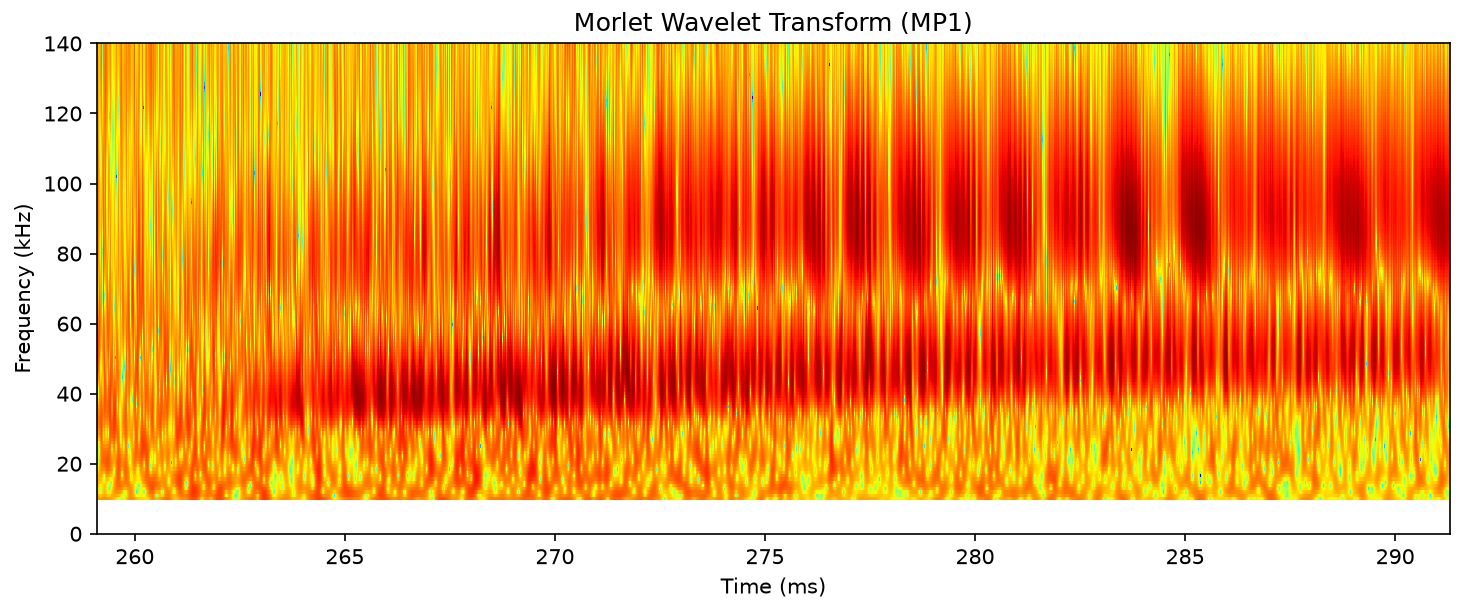
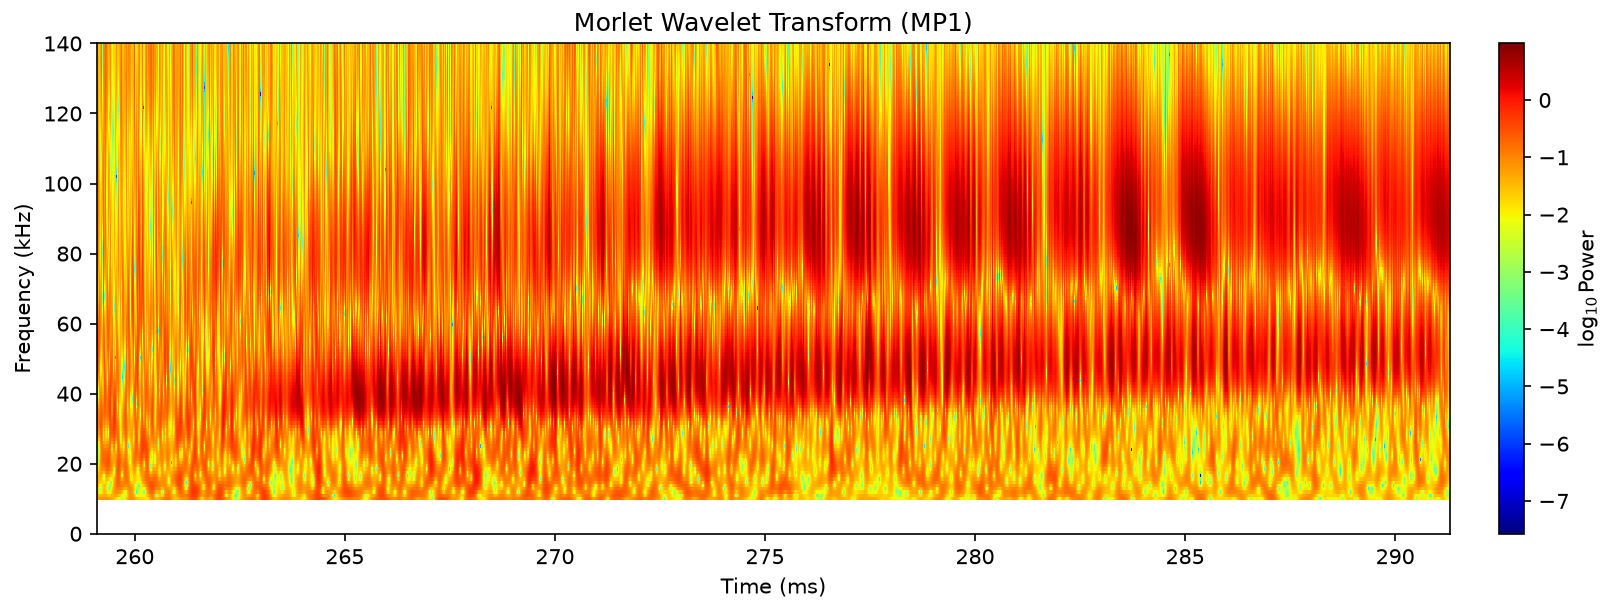
obj1: tracked ridge mode markers; re-extract heatmap panels with colorbars

diff --git a/analysis/obj1_mode_identification/mhd_analysis_obj1.py b/analysis/obj1_mode_identification/mhd_analysis_obj1.py
@@ -7,7 +7,8 @@ from pathlib import Path
 import numpy as np
 import matplotlib.pyplot as plt
 import scipy.signal as dsp
-from scipy.ndimage import uniform_filter1d
+from scipy.ndimage import uniform_filter1d, median_filter
+import matplotlib.patheffects as pe
 
 SHOTS_DEFAULT = [88653]
 
@@ -31,6 +32,7 @@ import turnelib as TE
 import libana_signal as LAS
 from mhd_common import morlet_cwt
 from comparison_common import (
+    DEFAULT_SHOT,
     T_NOISE_START, T_NOISE_END,
     T_W1_START, T_W1_END,
     T_W2_START, T_W2_END,
@@ -44,6 +46,12 @@ def setup_logging(verbose=False, log_file=None):
     log.setLevel(logging.DEBUG)
     log.handlers.clear()
     
+    if hasattr(sys.stdout, "reconfigure"):
+        try:
+            sys.stdout.reconfigure(encoding="utf-8", errors="replace")
+        except Exception:
+            pass
+
     console = logging.StreamHandler(sys.stdout)
     console.setLevel(logging.DEBUG if verbose else logging.INFO)
     console.setFormatter(logging.Formatter("%(message)s"))
@@ -377,7 +385,7 @@ def process_shot(shot, args):
 
         c0 = axs[0].pcolormesh(tt[mask_fplot, :], ff[mask_fplot, :], np.log10(Pyy1[mask_fplot, :] + 1e-30),
                                 cmap='jet', shading='auto')
-        fig.colorbar(c0, ax=axs[0], label="log10 PSD (V^2/Hz)", pad=0.03)
+        cb0 = fig.colorbar(c0, ax=axs[0], label="log10 PSD (V^2/Hz)", pad=0.03)
 
         dmap_plot = dominance_map[mask_fplot, :].astype(float)
         axs[0].contourf(tt[mask_fplot, :], ff[mask_fplot, :], dmap_plot,
@@ -388,64 +396,163 @@ def process_shot(shot, args):
         # Time window matching heating_vs_mirnov.py
         axs[0].set_xlim(150.0, 350.0)
 
-        # Primary and secondary mode segmented markers
-        phase_tracking = compute_phase_mode_frequencies(signals["MP1"], fs, time_sec)
-        w1_data = phase_tracking["ECH + NBI Phase"]
-        w2_data = phase_tracking["NBI-only Phase"]
+        # Mode markers for DEFAULT_SHOT only
+        if shot == DEFAULT_SHOT:
+            # Dynamic tracked ridge lines for Primary and Secondary modes
+            nperseg_tr = 1024
+            noverlap_tr = 960  # hop = 64 us
+            f_stft_tr, t_s_tr, Zxx_tr = dsp.stft(signals["MP1"], fs=fs, nperseg=nperseg_tr, noverlap=noverlap_tr, window='hann')
+            t_stft_ms_tr = float(time_sec[0]) * 1000.0 + t_s_tr * 1000.0
+            psd_tr = np.abs(Zxx_tr) ** 2
+            f_khz_tr = f_stft_tr / 1000.0
 
-        f_pri_w1, f_sec_w1 = w1_data["f_pri_mean"], w1_data["f_sec_mean"]
-        f_pri_w2, f_sec_w2 = w2_data["f_pri_mean"], w2_data["f_sec_mean"]
+            m_pri_band = (f_khz_tr >= 70.0) & (f_khz_tr <= 110.0)
+            m_sec_band = (f_khz_tr >= 30.0) & (f_khz_tr <= 65.0)
 
-        log_print(f"Segmented mode ridge tracking for Shot {shot}:")
-        log_print(f"  Primary Mode Segment 1 (ECH+NBI):  [{w1_data['tw_start']:.1f}, {w1_data['tw_end']:.1f}] ms -> {f_pri_w1:.2f} kHz")
-        log_print(f"  Primary Mode Segment 2 (NBI-only): [{w2_data['tw_start']:.1f}, {w2_data['tw_end']:.1f}] ms -> {f_pri_w2:.2f} kHz")
-        log_print(f"  Secondary Mode Segment 1 (ECH+NBI):  [{w1_data['tw_start']:.1f}, {w1_data['tw_end']:.1f}] ms -> {f_sec_w1:.2f} kHz")
-        log_print(f"  Secondary Mode Segment 2 (NBI-only): [{w2_data['tw_start']:.1f}, {w2_data['tw_end']:.1f}] ms -> {f_sec_w2:.2f} kHz")
+            # Dominance map lookup setup
+            t_dmap_ms = tave * 1000.0
+            f_dmap_khz = f / 1000.0
 
-        # Sanity check against reference values
-        ref_pri_w1, ref_sec_w1 = 87.60, 45.47
-        ref_pri_w2, ref_sec_w2 = 86.69, 40.26
-        if abs(f_pri_w1 - ref_pri_w1) > 4.0 or abs(f_sec_w1 - ref_sec_w1) > 4.0 or \
-           abs(f_pri_w2 - ref_pri_w2) > 4.0 or abs(f_sec_w2 - ref_sec_w2) > 4.0:
-            raise ValueError("Computed ridge tracking values disagree with reference values by more than 4 kHz! Aborting.")
+            # Process per phase: Phase 1 (259.1-291.3 ms) and Phase 2 (291.3-300.0 ms)
+            phase_defs = [
+                ("Phase 1 (ECH+NBI)", (t_stft_ms_tr >= 259.1) & (t_stft_ms_tr <= 291.3)),
+                ("Phase 2 (NBI-only)", (t_stft_ms_tr > 291.3) & (t_stft_ms_tr <= 300.0)),
+            ]
 
-        # Primary mode segments (white dashed)
-        axs[0].plot([w1_data["tw_start"], w1_data["tw_end"]], [f_pri_w1, f_pri_w1],
-                    color='white', linestyle='--', linewidth=2.4, zorder=5)
-        axs[0].plot([w2_data["tw_start"], w2_data["tw_end"]], [f_pri_w2, f_pri_w2],
-                    color='white', linestyle='--', linewidth=2.4, zorder=5)
+            mode_results = {}
+            log_print(f"\nTracked ridge mode statistics for Shot {shot} (median filter: 17 slices = 1.088 ms):")
 
-        # Secondary mode segments (yellow dashed)
-        axs[0].plot([w1_data["tw_start"], w1_data["tw_end"]], [f_sec_w1, f_sec_w1],
-                    color='yellow', linestyle='--', linewidth=2.4, zorder=5)
-        axs[0].plot([w2_data["tw_start"], w2_data["tw_end"]], [f_sec_w2, f_sec_w2],
-                    color='yellow', linestyle='--', linewidth=2.4, zorder=5)
+            def filter_short_runs(mask, min_len=9):
+                cleaned = mask.copy()
+                in_run = False
+                run_start = 0
+                runs = []
+                for i, val in enumerate(mask):
+                    if val and not in_run:
+                        in_run = True
+                        run_start = i
+                    elif not val and in_run:
+                        in_run = False
+                        runs.append((run_start, i))
+                if in_run:
+                    runs.append((run_start, len(mask)))
+                n_dropped = 0
+                for start, end in runs:
+                    rlen = end - start
+                    if rlen < min_len:
+                        cleaned[start:end] = False
+                        n_dropped += rlen
+                return cleaned, n_dropped
 
-        # Small frequency badges
-        bbox_f_pri = dict(boxstyle='round,pad=0.2', facecolor='black', alpha=0.75, edgecolor='white', lw=0.8)
-        bbox_f_sec = dict(boxstyle='round,pad=0.2', facecolor='black', alpha=0.75, edgecolor='yellow', lw=0.8)
+            for pname, mask_ph in phase_defs:
+                t_ph = t_stft_ms_tr[mask_ph]
+                n_sl = len(t_ph)
+                psd_ph = psd_tr[:, mask_ph]
 
-        axs[0].text((w1_data["tw_start"] + w1_data["tw_end"]) / 2.0, f_pri_w1 + 3.0, f"{f_pri_w1:.1f} kHz",
-                    color='white', fontsize=8.0, fontweight='bold', ha='center', va='bottom', bbox=bbox_f_pri)
-        axs[0].text((w2_data["tw_start"] + w2_data["tw_end"]) / 2.0, f_pri_w2 + 3.0, f"{f_pri_w2:.1f} kHz",
-                    color='white', fontsize=8.0, fontweight='bold', ha='center', va='bottom', bbox=bbox_f_pri)
+                raw_p = f_khz_tr[m_pri_band][np.argmax(psd_ph[m_pri_band, :], axis=0)]
+                raw_s = f_khz_tr[m_sec_band][np.argmax(psd_ph[m_sec_band, :], axis=0)]
 
-        axs[0].text((w1_data["tw_start"] + w1_data["tw_end"]) / 2.0, f_sec_w1 + 3.0, f"{f_sec_w1:.1f} kHz",
-                    color='yellow', fontsize=8.0, fontweight='bold', ha='center', va='bottom', bbox=bbox_f_sec)
-        axs[0].text((w2_data["tw_start"] + w2_data["tw_end"]) / 2.0, f_sec_w2 - 3.0, f"{f_sec_w2:.1f} kHz",
-                    color='yellow', fontsize=8.0, fontweight='bold', ha='center', va='top', bbox=bbox_f_sec)
+                med_p = median_filter(raw_p, size=17)
+                med_s = median_filter(raw_s, size=17)
 
-        # Mode labels near right end of mode's line (styled like mhd_plot_modulator_dual_mode.py)
-        bbox_lbl_pri = dict(boxstyle='round,pad=0.3', facecolor='black', alpha=0.85, edgecolor='white', lw=1.2)
-        bbox_lbl_sec = dict(boxstyle='round,pad=0.3', facecolor='black', alpha=0.85, edgecolor='yellow', lw=1.2)
+                for mname, raw_arr, med_arr in [("Primary", raw_p, med_p), ("Secondary", raw_s, med_s)]:
+                    # Edge trimming: drop first and last 8 slices
+                    edge_drop = np.zeros(n_sl, dtype=bool)
+                    edge_drop[:8] = True
+                    edge_drop[-8:] = True
+                    n_edge = int(np.sum(edge_drop))
 
-        axs[0].annotate('Primary Mode', xy=(w2_data["tw_end"], f_pri_w2), xytext=(305.0, f_pri_w2),
-                        ha='left', va='center', fontsize=9.0, fontweight='bold', color='white',
-                        bbox=bbox_lbl_pri, arrowprops=dict(arrowstyle='->', color='white', lw=1.2))
+                    # Outlier rejection: |raw - filtered| > 5.0 kHz
+                    diff = np.abs(raw_arr - med_arr)
+                    outlier_drop = diff > 5.0
+                    n_outliers = int(np.sum(outlier_drop & (~edge_drop)))
 
-        axs[0].annotate('Secondary Mode', xy=(w2_data["tw_end"], f_sec_w2), xytext=(305.0, f_sec_w2),
-                        ha='left', va='center', fontsize=9.0, fontweight='bold', color='yellow',
-                        bbox=bbox_lbl_sec, arrowprops=dict(arrowstyle='->', color='yellow', lw=1.2))
+                    # 3-sigma dominance map lookup
+                    dom_mask = np.zeros(n_sl, dtype=bool)
+                    for idx_pt, (ti, fp) in enumerate(zip(t_ph, med_arr)):
+                        it = int(np.abs(t_dmap_ms - ti).argmin())
+                        ifp = int(np.abs(f_dmap_khz - fp).argmin())
+                        dom_mask[idx_pt] = dominance_map[ifp, it]
+
+                    dom_masked = (~edge_drop) & (~outlier_drop) & (~dom_mask)
+                    n_dom = int(np.sum(dom_masked))
+
+                    valid_initial = (~edge_drop) & (~outlier_drop) & dom_mask
+                    valid_mask, n_short = filter_short_runs(valid_initial, min_len=9)
+                    valid_vals = med_arr[valid_mask]
+                    mean_val = float(np.mean(valid_vals)) if len(valid_vals) > 0 else float('nan')
+                    min_val = float(np.min(valid_vals)) if len(valid_vals) > 0 else float('nan')
+                    max_val = float(np.max(valid_vals)) if len(valid_vals) > 0 else float('nan')
+
+                    log_print(f"  {pname} - {mname} Mode:")
+                    log_print(f"    Slices dropped by edge trimming: {n_edge}")
+                    log_print(f"    Slices dropped as outliers: {n_outliers}")
+                    log_print(f"    Slices masked by 3-sigma dominance map: {n_dom}")
+                    log_print(f"    Slices dropped as short runs (< 9 slices): {n_short}")
+                    log_print(f"    Resulting mean = {mean_val:.2f} kHz, min = {min_val:.2f} kHz, max = {max_val:.2f} kHz")
+
+                    mode_results[(pname, mname)] = {
+                        "t": t_ph,
+                        "plot_vals": np.where(valid_mask, med_arr, np.nan),
+                        "mean": mean_val,
+                        "min": min_val,
+                        "max": max_val,
+                    }
+
+            pri_w1_mean = mode_results[("Phase 1 (ECH+NBI)", "Primary")]["mean"]
+            pri_w2_mean = mode_results[("Phase 2 (NBI-only)", "Primary")]["mean"]
+            sec_w1_mean = mode_results[("Phase 1 (ECH+NBI)", "Secondary")]["mean"]
+            sec_w2_mean = mode_results[("Phase 2 (NBI-only)", "Secondary")]["mean"]
+
+            # Sanity check against flat reference values
+            ref_pri_w1, ref_sec_w1 = 87.60, 45.47
+            ref_pri_w2, ref_sec_w2 = 86.69, 40.26
+            d_p1 = abs(pri_w1_mean - ref_pri_w1)
+            d_p2 = abs(pri_w2_mean - ref_pri_w2)
+            d_s1 = abs(sec_w1_mean - ref_sec_w1)
+            d_s2 = abs(sec_w2_mean - ref_sec_w2)
+            log_print(f"  Differences vs flat references: Pri W1: {d_p1:.2f} kHz, Pri W2: {d_p2:.2f} kHz, Sec W1: {d_s1:.2f} kHz, Sec W2: {d_s2:.2f} kHz")
+            if d_p1 > 4.0 or d_p2 > 4.0 or d_s1 > 4.0 or d_s2 > 4.0:
+                log_print(f"  WARNING: One or more tracked ridge means differ from flat reference values by more than 4 kHz! Continuing.")
+
+            # Plot cleaned 1.6 pt solid lines with dark outline
+            outline_effect = [pe.Stroke(linewidth=3.0, foreground='black'), pe.Normal()]
+            for pname in ["Phase 1 (ECH+NBI)", "Phase 2 (NBI-only)"]:
+                axs[0].plot(mode_results[(pname, "Primary")]["t"],
+                            mode_results[(pname, "Primary")]["plot_vals"],
+                            color='white', linewidth=1.6, zorder=5, path_effects=outline_effect)
+                axs[0].plot(mode_results[(pname, "Secondary")]["t"],
+                            mode_results[(pname, "Secondary")]["plot_vals"],
+                            color='yellow', linewidth=1.6, zorder=5, path_effects=outline_effect)
+
+            # Mode labels near right end with arrow pointing to the last valid point
+            p2_pri_vals = mode_results[("Phase 2 (NBI-only)", "Primary")]["plot_vals"]
+            p2_pri_t = mode_results[("Phase 2 (NBI-only)", "Primary")]["t"]
+            valid_p2_pri = np.where(~np.isnan(p2_pri_vals))[0]
+            last_t_pri = p2_pri_t[valid_p2_pri[-1]]
+            last_f_pri = p2_pri_vals[valid_p2_pri[-1]]
+
+            p2_sec_vals = mode_results[("Phase 2 (NBI-only)", "Secondary")]["plot_vals"]
+            p2_sec_t = mode_results[("Phase 2 (NBI-only)", "Secondary")]["t"]
+            valid_p2_sec = np.where(~np.isnan(p2_sec_vals))[0]
+            last_t_sec = p2_sec_t[valid_p2_sec[-1]]
+            last_f_sec = p2_sec_vals[valid_p2_sec[-1]]
+
+            bbox_lbl_pri = dict(boxstyle='round,pad=0.3', facecolor='black', alpha=0.85, edgecolor='white', lw=1.2)
+            bbox_lbl_sec = dict(boxstyle='round,pad=0.3', facecolor='black', alpha=0.85, edgecolor='yellow', lw=1.2)
+
+            label_pri = f"Primary Mode\nmean {pri_w1_mean:.1f} \u2192 {pri_w2_mean:.1f} kHz"
+            label_sec = f"Secondary Mode\nmean {sec_w1_mean:.1f} \u2192 {sec_w2_mean:.1f} kHz"
+
+            axs[0].annotate(label_pri, xy=(last_t_pri, last_f_pri), xytext=(305.0, last_f_pri),
+                            ha='left', va='center', fontsize=8.5, fontweight='bold', color='white',
+                            bbox=bbox_lbl_pri, arrowprops=dict(arrowstyle='->', color='white', lw=1.2))
+
+            axs[0].annotate(label_sec, xy=(last_t_sec, last_f_sec), xytext=(305.0, last_f_sec),
+                            ha='left', va='center', fontsize=8.5, fontweight='bold', color='yellow',
+                            bbox=bbox_lbl_sec, arrowprops=dict(arrowstyle='->', color='yellow', lw=1.2))
+        else:
+            log_print(f"Notice: Mode markers are only defined for shot {DEFAULT_SHOT}; skipping mode markers for shot {shot}.")
 
         axs[0].set_title("MP1 Spectrogram with 3-sigma Dominance Region")
         axs[0].set_xlabel("Time (ms)")
@@ -453,7 +560,7 @@ def process_shot(shot, args):
 
         tt_w, ff_w = np.meshgrid(time_sec * 1000.0, freqs_wav / 1000.0)
         c1 = axs[1].pcolormesh(tt_w, ff_w, np.log10(wav_power + 1e-30), cmap='jet', shading='auto')
-        fig.colorbar(c1, ax=axs[1], label="log10 Wavelet Power (rel.)", pad=0.03)
+        cb1 = fig.colorbar(c1, ax=axs[1], label="log10 Wavelet Power (rel.)", pad=0.03)
         axs[1].set_title("Morlet Wavelet Transform (MP1)")
         axs[1].set_xlabel("Time (ms)")
         axs[1].set_ylabel("Frequency (kHz)")
@@ -493,33 +600,48 @@ def process_shot(shot, args):
         primary_axes = [ax for ax in fig.get_axes() if not (hasattr(ax, '_colorbar_info') or getattr(ax, '_colorbar', False))]
 
         pad = 0.08
-        # Panel 1
+        # Panel 1 (with colorbar)
         ax1 = primary_axes[0]
         bb1 = ax1.get_tightbbox(renderer)
         if bb1 is None: bb1 = ax1.get_window_extent(renderer)
-        bb1_in = bb1.transformed(fig.dpi_scale_trans.inverted())
+        bb1_cb = cb0.ax.get_tightbbox(renderer)
+        if bb1_cb is None: bb1_cb = cb0.ax.get_window_extent(renderer)
+        bb1_union = transforms.Bbox.union([bb1, bb1_cb])
+        bb1_in = bb1_union.transformed(fig.dpi_scale_trans.inverted())
         bb1_padded = transforms.Bbox.from_extents(bb1_in.x0 - pad, bb1_in.y0 - pad, bb1_in.x1 + pad, bb1_in.y1 + pad)
         p1_path = panels_dir / f"mhd_analysis_objective1_{shot}_panel1_mp1_spectrogram_with_3_sigma_dominance_r.png"
         fig.savefig(str(p1_path), dpi=150, bbox_inches=bb1_padded, facecolor=fig.get_facecolor(), edgecolor='none', pad_inches=0)
         print(f"Panel 1 extracted and saved to '{p1_path}'.")
 
-        # Compare panels 2 and 3 hashes
+        # Panel 2 (with colorbar)
+        ax2 = primary_axes[1]
+        bb2 = ax2.get_tightbbox(renderer)
+        if bb2 is None: bb2 = ax2.get_window_extent(renderer)
+        bb2_cb = cb1.ax.get_tightbbox(renderer)
+        if bb2_cb is None: bb2_cb = cb1.ax.get_window_extent(renderer)
+        bb2_union = transforms.Bbox.union([bb2, bb2_cb])
+        bb2_in = bb2_union.transformed(fig.dpi_scale_trans.inverted())
+        bb2_padded = transforms.Bbox.from_extents(bb2_in.x0 - pad, bb2_in.y0 - pad, bb2_in.x1 + pad, bb2_in.y1 + pad)
         p2_path = panels_dir / f"mhd_analysis_objective1_{shot}_panel2_morlet_wavelet_transform_mp1.png"
+        fig.savefig(str(p2_path), dpi=150, bbox_inches=bb2_padded, facecolor=fig.get_facecolor(), edgecolor='none', pad_inches=0)
+        print(f"Panel 2 extracted (with colorbar) and saved to '{p2_path}'.")
+
+        # Panel 3 (no colorbar - verify hash match)
+        ax3 = primary_axes[2]
         p3_path = panels_dir / f"mhd_analysis_objective1_{shot}_panel3_inter_probe_spatial_coherence_gamma2f.png"
-        for i, (ax, p_path) in enumerate([(primary_axes[1], p2_path), (primary_axes[2], p3_path)], 2):
-            if p_path.exists():
-                orig_hash = hashlib.sha256(p_path.read_bytes()).hexdigest()
-                bb = ax.get_tightbbox(renderer)
-                if bb is None: bb = ax.get_window_extent(renderer)
-                bbi = bb.transformed(fig.dpi_scale_trans.inverted())
-                bbp = transforms.Bbox.from_extents(bbi.x0 - pad, bbi.y0 - pad, bbi.x1 + pad, bbi.y1 + pad)
-                buf = io.BytesIO()
-                fig.savefig(buf, format='png', dpi=150, bbox_inches=bbp, facecolor=fig.get_facecolor(), edgecolor='none', pad_inches=0)
-                new_hash = hashlib.sha256(buf.getvalue()).hexdigest()
-                match = (orig_hash == new_hash)
-                print(f"Panel {i} SHA-256 match: {match} (orig: {orig_hash}, new: {new_hash})")
-                if not match:
-                    print(f"WARNING: Panel {i} hash differs! Leaving existing file untouched.")
+        if p3_path.exists():
+            orig_hash = hashlib.sha256(p3_path.read_bytes()).hexdigest()
+            bb3 = ax3.get_tightbbox(renderer)
+            if bb3 is None: bb3 = ax3.get_window_extent(renderer)
+            bb3_in = bb3.transformed(fig.dpi_scale_trans.inverted())
+            bb3_padded = transforms.Bbox.from_extents(bb3_in.x0 - pad, bb3_in.y0 - pad, bb3_in.x1 + pad, bb3_in.y1 + pad)
+            buf = io.BytesIO()
+            fig.savefig(buf, format='png', dpi=150, bbox_inches=bb3_padded, facecolor=fig.get_facecolor(), edgecolor='none', pad_inches=0)
+            new_hash = hashlib.sha256(buf.getvalue()).hexdigest()
+            match = (orig_hash == new_hash)
+            print(f"Panel 3 SHA-256 match: {match} (orig: {orig_hash}, new: {new_hash})")
+            if not match:
+                print(f"WARNING: Panel 3 hash differs! Leaving existing file untouched.")
 
         plt.close(fig)
 
